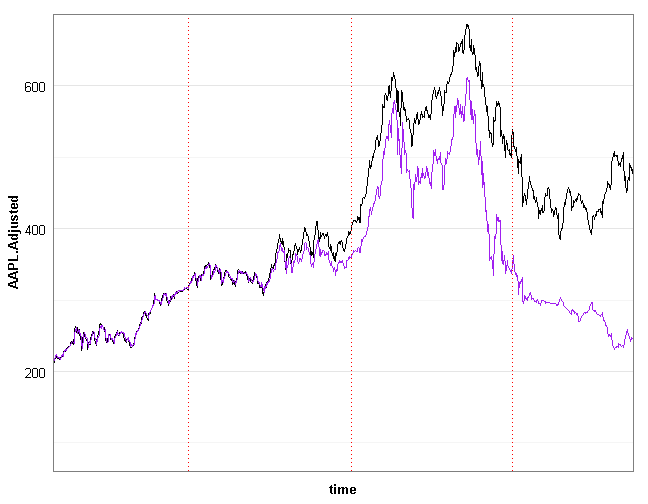
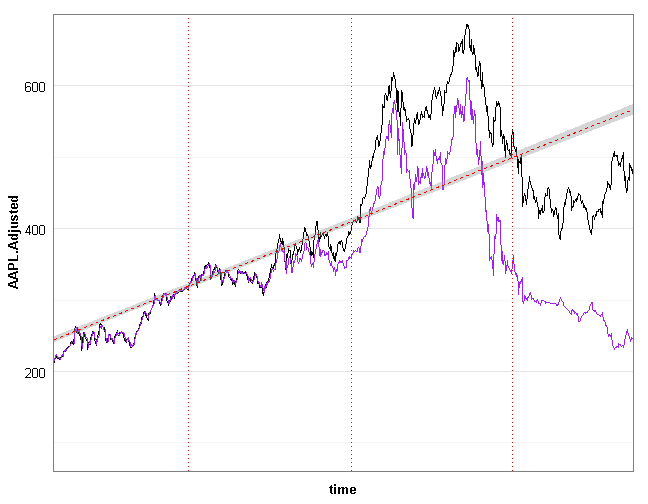
clean up and update

diff --git a/AppliedModelingTalk.md b/AppliedModelingTalk.md
@@ -55,7 +55,7 @@ Applied Models and Inference
 Applied modeling and inferential statistics share many of the same concepts:
 
 - Regression estimation
-- Concerns about representative of data and samples
+- Concerns about representativeness of data and samples
 - Fear of outliers
 - Robustness and sensitivity
 
@@ -123,12 +123,16 @@ Some Vocabulary
 
 - Training data
 - Test data
+- Bias (error)
+- Variance (error)
 
 
 ***
 
 - Data the model is fit to
 - Data the model is applied to, but not fit to, to evaluate model fit
+- Refers to the amount of error due to simplifying a complex process
+- The amount the $f$ would change if fit to a different training set of data
 
 The Challenge
 =================================
@@ -146,13 +150,15 @@ concern ourselves with **test error**
 A Trivial Example
 ===============================
 
-Consider the following:
+Consider the following training data:
 
 <img src="AppliedModelingTalk-figure/unnamed-chunk-3.png" title="plot of chunk unnamed-chunk-3" alt="plot of chunk unnamed-chunk-3" style="display: block; margin: auto;" />
 
 
 Consider the Test Data
 =========================
+
+How does our model fit the test data? 
 
 <img src="AppliedModelingTalk-figure/unnamed-chunk-4.png" title="plot of chunk unnamed-chunk-4" alt="plot of chunk unnamed-chunk-4" style="display: block; margin: auto;" />
 
@@ -166,7 +172,10 @@ Consider the Pooled Data
 What do we learn?
 =============================
 
-- The data was generated the same
+- The data was generated from the same function but there was a trend across 
+groups
+- Predicting from this training model leads to **bias** in our predictions
+- 
 
 
 When Could this Matter: Stocks?
@@ -200,3 +209,14 @@ Overfit
 =====================
 
 - Training data can lead to model overfit
+- Extrapolation gets harder
+- Time changes everything
+- Non-linear behaviors
+- Paradigm shifts
+
+Resources
+====================
+
+- An Introduction to Statistical Learning (2013). Gareth James, Daniela Witten, Trevor Hastie and Robert Tibshirani. Springer. 
+- Elements of Statistical Learning (Second Edition, 2011). Trevor Hastie, 
+Robert Tibshirani, and Jerome Friedman. Springer
